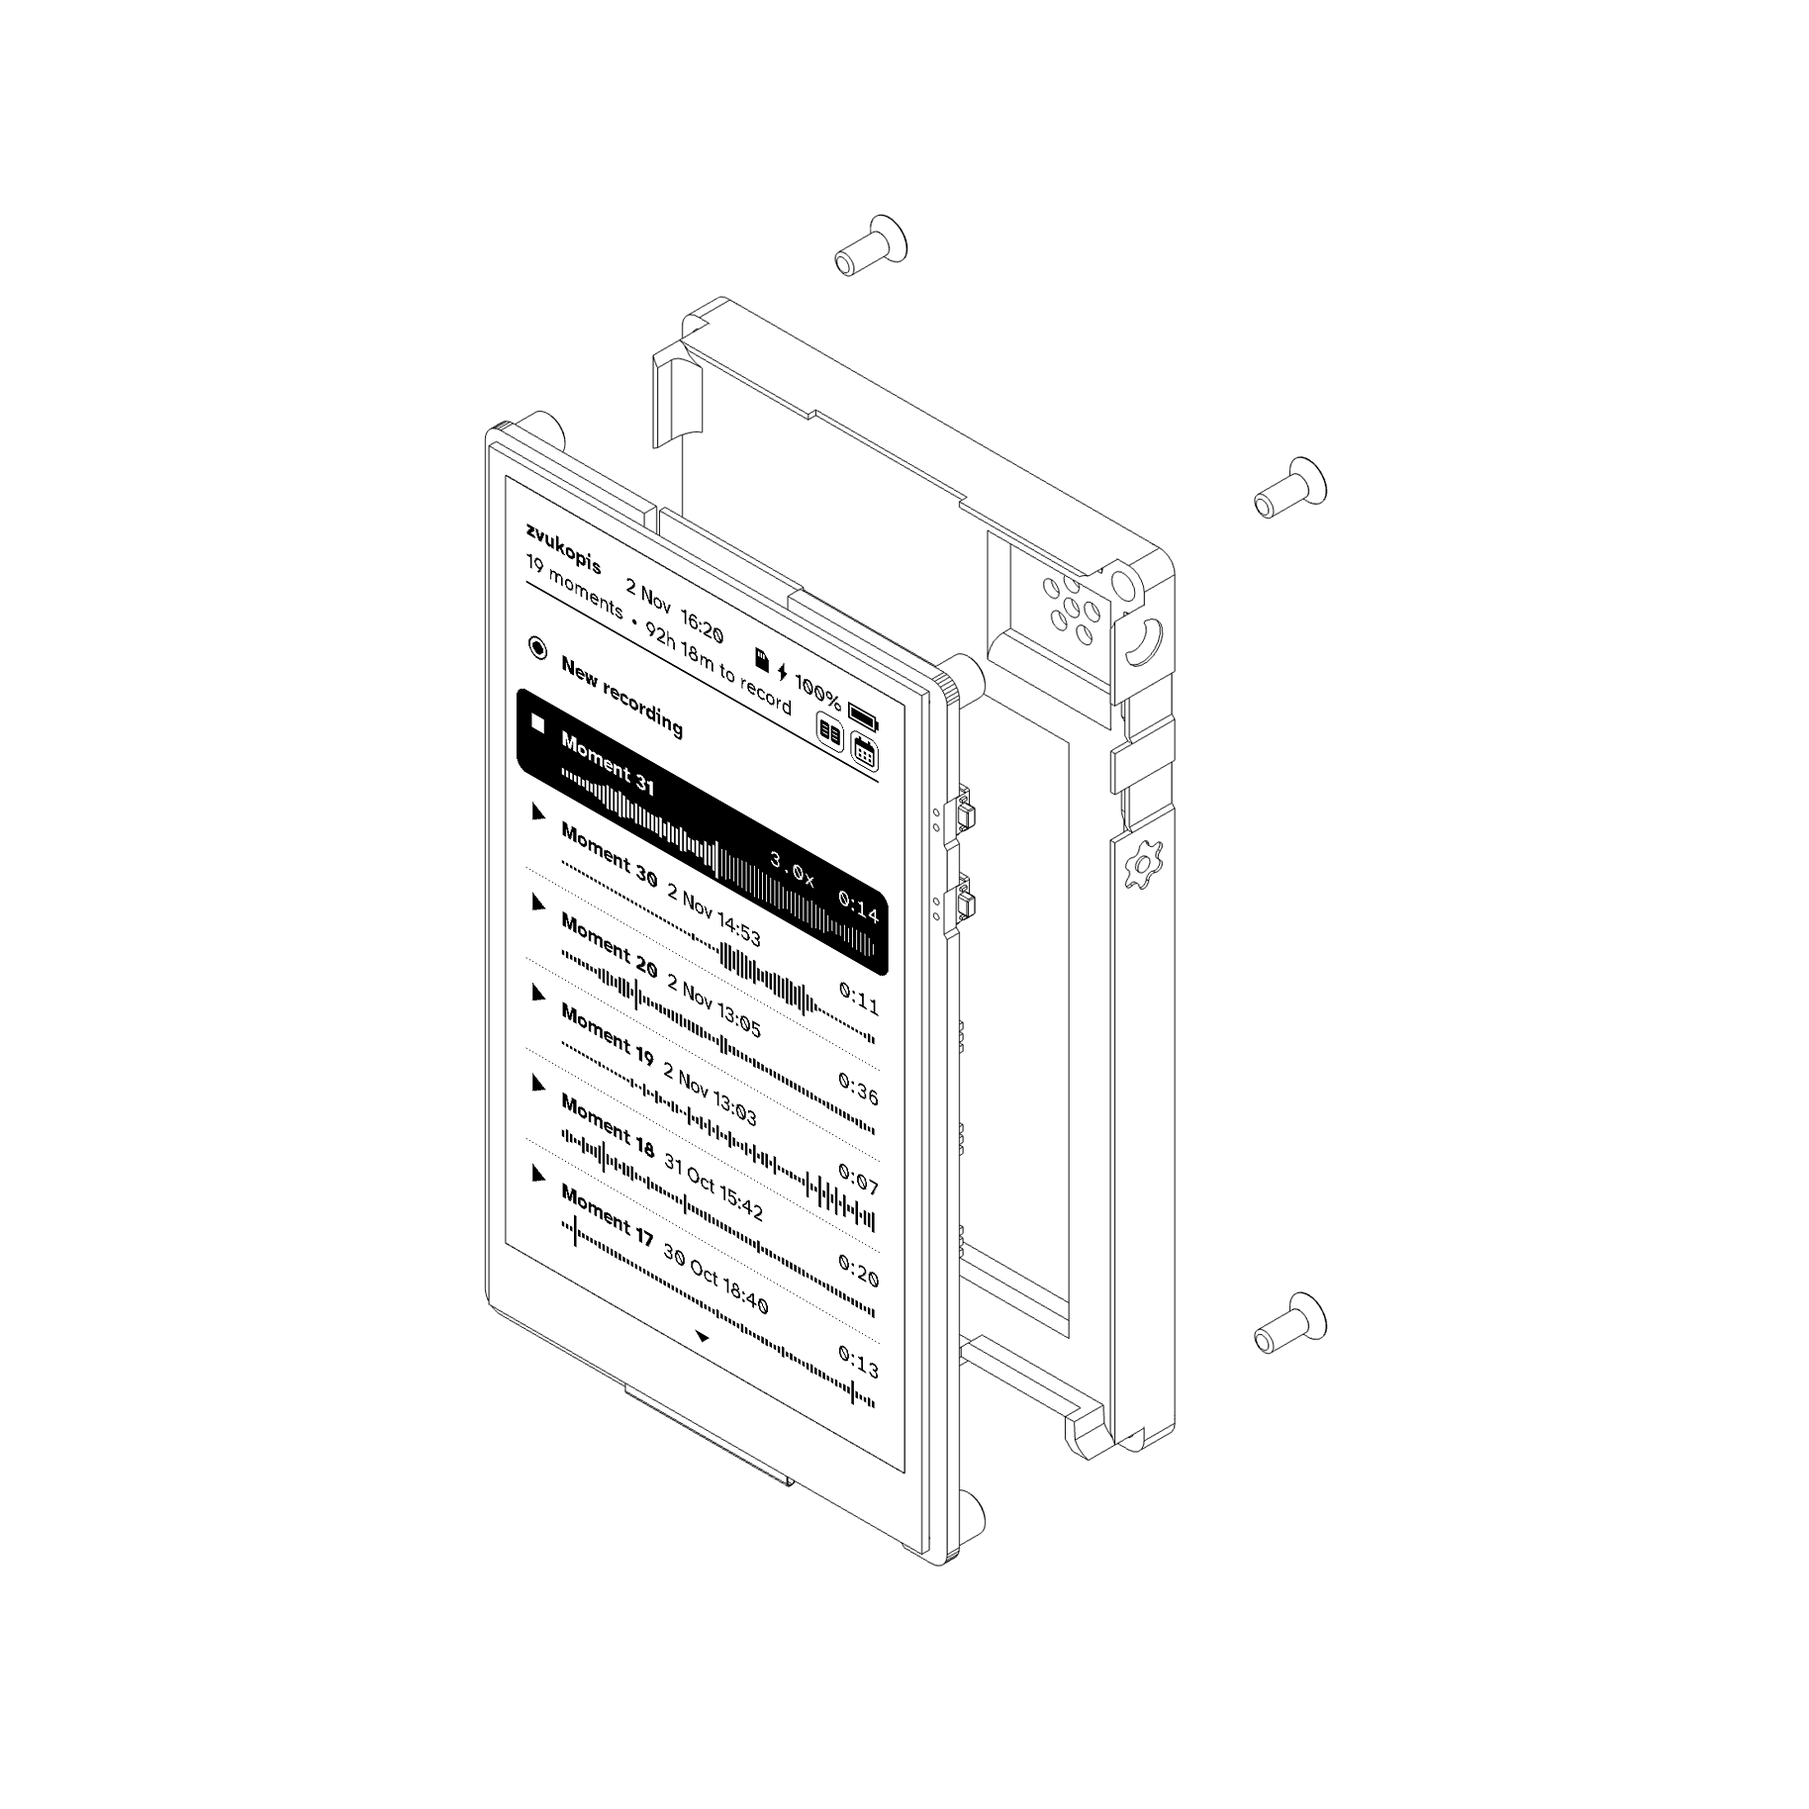
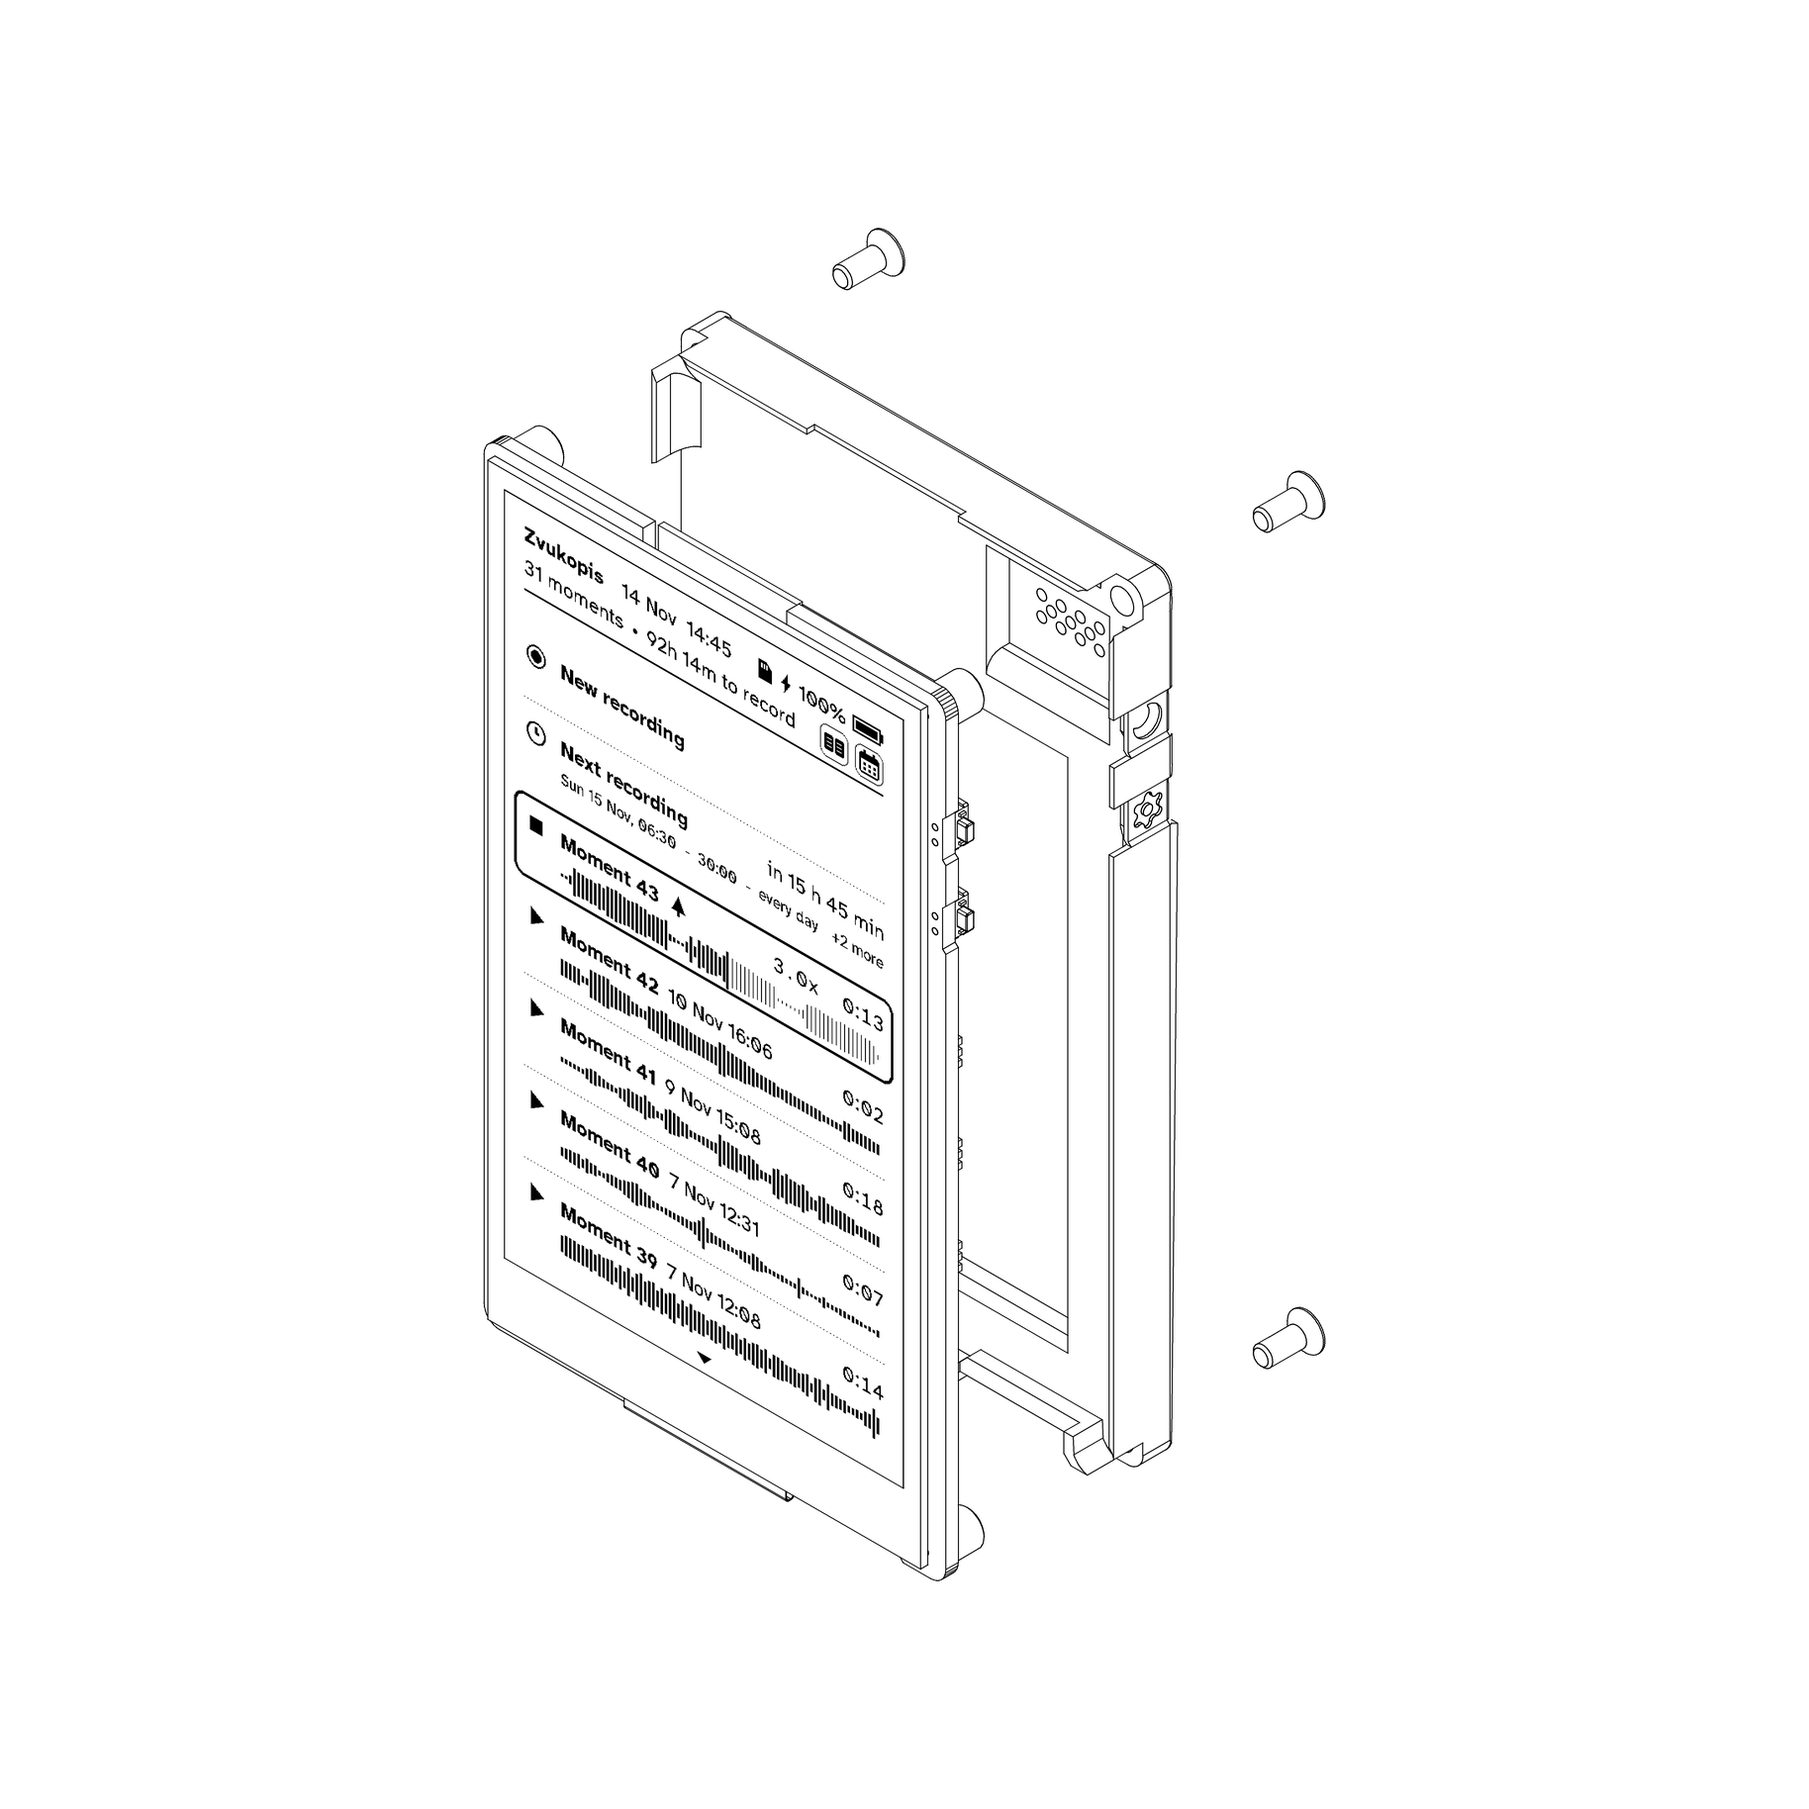
Case v1: its exploded view, drawn by a script
scripts/make_exploded_view.py draws the exploded view from the case's STEP
file, Waveshare's 3D model of the board and a screenshot of the device. It
turns the board into the case's coordinates, checks that the case has a
bolt hole under each standoff, adds the four bolts, removes the hidden
lines (OpenCascade) and lays the screenshot on the screen. Run with pipx,
it fetches what it needs by itself.

Drawn of the earlier case, its lines fall on the drawing that was made by
hand for that case. Drawn of v1, it replaces that drawing on the project
page: the grille of eleven holes and the smaller marks at the buttons now
show. docs/case/README.md names the script.

diff --git a/scripts/make_exploded_view.py b/scripts/make_exploded_view.py
@@ -1,0 +1,289 @@
+#!/usr/bin/env python3
+# /// script
+# requires-python = ">=3.11,<3.15"
+# dependencies = ["cadquery-ocp-novtk==8.0.1.1.0", "numpy>=2", "pillow>=10"]
+# ///
+"""Draw the exploded view of the case: the board in front, the case behind it,
+the four bolts behind the case, a screenshot of the device on the screen.
+
+    pipx run scripts/make_exploded_view.py
+
+reads the newest docs/case/zvukopis-case-vN.step and writes
+docs/case/zvukopis-case-vN.png beside it, the line drawing the project page
+shows in its Build section. pipx fetches what the script needs (OpenCascade,
+the CAD library that reads STEP files and removes the hidden lines) the first
+time, about 65 MB; the drawing itself takes about twenty seconds.
+
+It needs two more files:
+
+- the board's 3D model, a STEP file. It is Waveshare's
+  (ESP32-S3-EPAPER-3_97-20260821.stp) and is not in this repository. The
+  script looks for it in ../reference/ (see BOARD below); give another place
+  with --board.
+- a screenshot of the device, 480 x 800 (serial command "s"), for the screen.
+  scripts/exploded-view-screen.png unless --screen names another.
+
+The board's model lies along X where the case stands along Y, so it is turned
+a quarter turn about Z; apart from that the two share their coordinates (the
+case was drawn around the board's model). The script checks that before it
+draws: the case must have a hole under each of the board's four standoffs.
+"""
+import argparse
+import math
+import re
+import sys
+import time
+from pathlib import Path
+
+import numpy as np
+from PIL import Image, ImageChops, ImageDraw
+
+from OCP.BRep import BRep_Builder
+from OCP.BRepAdaptor import BRepAdaptor_Curve
+from OCP.BRepBndLib import BRepBndLib
+from OCP.BRepBuilderAPI import (BRepBuilderAPI_MakeEdge, BRepBuilderAPI_MakeFace, BRepBuilderAPI_MakeWire,
+                                BRepBuilderAPI_Transform)
+from OCP.BRepClass3d import BRepClass3d_SolidClassifier
+from OCP.BRepLib import BRepLib
+from OCP.BRepMesh import BRepMesh_IncrementalMesh
+from OCP.BRepPrimAPI import BRepPrimAPI_MakeRevol
+from OCP.Bnd import Bnd_Box
+from OCP.GCPnts import GCPnts_TangentialDeflection
+from OCP.HLRAlgo import HLRAlgo_Projector
+from OCP.HLRBRep import HLRBRep_PolyAlgo, HLRBRep_PolyHLRToShape
+from OCP.IFSelect import IFSelect_RetDone
+from OCP.STEPControl import STEPControl_Reader
+from OCP.TopAbs import TopAbs_EDGE, TopAbs_IN
+from OCP.TopExp import TopExp_Explorer
+from OCP.TopoDS import TopoDS, TopoDS_Compound
+from OCP.gp import gp_Ax1, gp_Ax2, gp_Dir, gp_Pnt, gp_Trsf, gp_Vec
+
+ROOT = Path(__file__).resolve().parent.parent
+CASES = ROOT / "docs" / "case"
+BOARD = ROOT.parent / "reference" / "ESP32-S3-EPAPER-3" / "ESP32-S3-EPAPER-3_97-20260821.stp"
+SCREEN = Path(__file__).resolve().parent / "exploded-view-screen.png"
+
+# The board, in the case's coordinates (millimetres; X across, Y up the device,
+# Z towards the eye that reads the screen). Read off Waveshare's model once.
+BOARD_BOX = ((-62.41, -0.01, -5.6), (0.69, 99.51, 1.35))      # with the wheel and the buttons that stick out
+STANDOFFS = ((-2.7, 2.7), (-57.3, 2.7), (-2.7, 96.8), (-57.3, 96.8))
+STANDOFF_END = -5.6                                            # where the bolts' threads begin
+PANEL = (-56.029, 9.718, -4.189, 96.118)                       # the screen's 480 x 800 dots: X left, Y bottom, X right, Y top
+PANEL_Z = 1.35
+
+# The bolts: countersunk M2.5 x 6. Shank and head diameters, head height, length.
+BOLT_SHANK, BOLT_HEAD, BOLT_HEAD_HEIGHT, BOLT_LENGTH = 2.5, 4.7, 1.3, 6.0
+
+# How far the parts are pulled apart along Z, and how the drawing sits on its square.
+BOARD_LIFT = 20.0        # the board, towards the eye
+BOLT_DROP = 20.0         # the bolts, away behind the case
+SIZE = 1828              # the picture's side, in pixels
+SCALE = 11.0             # pixels for a millimetre on the page (lines along X, Y and Z come out 0.82 of that)
+MARGIN = 0.05            # white kept at each side, as a part of the picture; a larger drawing is scaled down to keep it
+LINE = 1.0               # line width, in pixels of the picture
+OVERSAMPLE = 4
+
+# The view: from the front, the right and above, all three alike (isometric).
+EYE = (1.0, 1.0, 1.0)
+RIGHT = (1.0, 0.0, -1.0)
+
+
+def read_step(path):
+    reader = STEPControl_Reader()
+    if reader.ReadFile(str(path)) != IFSelect_RetDone:
+        sys.exit(f"Cannot read {path} as a STEP file.")
+    reader.TransferRoots()
+    return reader.OneShape()
+
+
+def box(shape):
+    b = Bnd_Box()
+    BRepBndLib.AddOptimal_s(shape, b, False, False)
+    lo, hi = b.CornerMin(), b.CornerMax()
+    return np.array([lo.X(), lo.Y(), lo.Z()]), np.array([hi.X(), hi.Y(), hi.Z()])
+
+
+def moved(shape, dz=0.0, quarter_turn=False):
+    t = gp_Trsf()
+    if quarter_turn:
+        t.SetRotation(gp_Ax1(gp_Pnt(0, 0, 0), gp_Dir(0, 0, 1)), math.pi / 2)
+    shift = gp_Trsf()
+    shift.SetTranslation(gp_Vec(0, 0, dz))
+    shift.Multiply(t)
+    return BRepBuilderAPI_Transform(shape, shift, True).Shape()
+
+
+def compound(shapes):
+    builder, c = BRep_Builder(), TopoDS_Compound()
+    builder.MakeCompound(c)
+    for s in shapes:
+        builder.Add(c, s)
+    return c
+
+
+def newest_case():
+    numbered = []
+    for p in CASES.glob("zvukopis-case-v*.step"):
+        m = re.fullmatch(r"zvukopis-case-v(\d+)\.step", p.name)
+        if m:
+            numbered.append((int(m.group(1)), p))
+    if not numbered:
+        sys.exit(f"No zvukopis-case-vN.step in {CASES}.")
+    return max(numbered)[1]
+
+
+def check_fit(case, board):
+    """The board as it sits on the case: stop if this case would not go on this board."""
+    lo, hi = box(board)
+    if np.abs(lo - BOARD_BOX[0]).max() > 0.05 or np.abs(hi - BOARD_BOX[1]).max() > 0.05:
+        sys.exit(f"The board's model is not the one this script knows: it spans {lo.round(2)} to {hi.round(2)}, "
+                 f"expected {BOARD_BOX[0]} to {BOARD_BOX[1]}. Check BOARD_BOX, STANDOFFS and PANEL against it.")
+    case_lo, case_hi = box(case)
+    if case_hi[2] > BOARD_BOX[1][2] or case_lo[2] > STANDOFF_END:
+        sys.exit(f"The case spans Z {case_lo[2]:.2f} to {case_hi[2]:.2f}: it is not drawn in the board's coordinates.")
+    inside = BRepClass3d_SolidClassifier(case)
+    for x, y in STANDOFFS:
+        for z in np.linspace(case_lo[2] - 0.5, STANDOFF_END, 12):
+            inside.Perform(gp_Pnt(x, y, float(z)), 1e-6)
+            if inside.State() == TopAbs_IN:
+                sys.exit(f"The case has no bolt hole under the standoff at X {x}, Y {y}: it is solid at Z {z:.2f}.")
+    return case_lo, case_hi
+
+
+def bolt():
+    """One countersunk bolt, standing on its head at the origin, its thread up along Z."""
+    r, R, k, L = BOLT_SHANK / 2, BOLT_HEAD / 2, BOLT_HEAD_HEIGHT, BOLT_LENGTH
+    rim = k - (R - r)                    # a 90-degree cone under a thin flat rim
+    chamfer = 0.3
+    outline = [(0, 0), (R, 0), (R, rim), (r, k), (r, L - chamfer), (r - chamfer, L), (0, L)]
+    wire = BRepBuilderAPI_MakeWire()
+    for (x0, z0), (x1, z1) in zip(outline, outline[1:] + outline[:1]):
+        wire.Add(BRepBuilderAPI_MakeEdge(gp_Pnt(x0, 0, z0), gp_Pnt(x1, 0, z1)).Edge())
+    face = BRepBuilderAPI_MakeFace(wire.Wire()).Face()
+    return BRepPrimAPI_MakeRevol(face, gp_Ax1(gp_Pnt(0, 0, 0), gp_Dir(0, 0, 1))).Shape()
+
+
+def at(shape, x, y, z):
+    t = gp_Trsf()
+    t.SetTranslation(gp_Vec(x, y, z))
+    return BRepBuilderAPI_Transform(shape, t, True).Shape()
+
+
+def page(points):
+    """Where points of the scene fall on the drawing, in millimetres, y up."""
+    p = np.asarray(points, dtype=float)
+    eye = np.array(EYE) / np.linalg.norm(EYE)
+    right = np.array(RIGHT) / np.linalg.norm(RIGHT)
+    up = np.cross(eye, right)
+    return np.stack([p @ right, p @ up], axis=-1)
+
+
+def visible_lines(scene, deflection=0.02, kinds=("sharp", "smooth", "outline")):
+    """The scene's edges and outlines as the eye sees them, hidden parts removed: polylines on the page."""
+    BRepMesh_IncrementalMesh(scene, deflection, False, 0.2, True)
+    algo = HLRBRep_PolyAlgo()
+    algo.Load(scene)
+    algo.Projector(HLRAlgo_Projector(gp_Ax2(gp_Pnt(0, 0, 0), gp_Dir(*EYE), gp_Dir(*RIGHT))))
+    algo.Update()
+    shapes = HLRBRep_PolyHLRToShape()
+    shapes.Update(algo)
+    # Edges where faces meet at an angle, edges where they meet smoothly (the ends of
+    # roundings), and the outlines of round faces. Left out: "seam", the line where a
+    # round face closes on itself, which a drawing does not show.
+    found = {"sharp": shapes.VCompound, "smooth": shapes.Rg1LineVCompound, "seam": shapes.RgNLineVCompound,
+             "outline": shapes.OutLineVCompound}
+    lines = []
+    for kind in kinds:
+        part = found[kind]()
+        if part is None or part.IsNull():
+            continue
+        BRepLib.BuildCurves3d_s(part)
+        e = TopExp_Explorer(part, TopAbs_EDGE)
+        while e.More():
+            curve = BRepAdaptor_Curve(TopoDS.Edge(e.Current()))
+            pts = GCPnts_TangentialDeflection(curve, 0.08, 0.005)
+            line = [(pts.Value(i).X(), pts.Value(i).Y()) for i in range(1, pts.NbPoints() + 1)]
+            if len(line) >= 2:
+                lines.append(np.array(line))
+            e.Next()
+    return lines
+
+
+def build_scene(case, board, case_lo):
+    head = bolt()
+    bolts = [at(head, x, y, case_lo[2] - BOLT_DROP) for x, y in STANDOFFS]
+    return compound([moved(board, BOARD_LIFT), case] + bolts)
+
+
+def draw(lines, screenshot, size=SIZE):
+    """Lines and screenshot on a white square."""
+    corners = np.array([(PANEL[0], PANEL[3], PANEL_Z + BOARD_LIFT), (PANEL[2], PANEL[3], PANEL_Z + BOARD_LIFT),
+                        (PANEL[0], PANEL[1], PANEL_Z + BOARD_LIFT)])                 # top left, top right, bottom left
+    quad = page(corners)
+    # The screen's border is an edge of the board's model too: its corners must lie on drawn lines.
+    drawn = np.concatenate(lines)
+    for c in quad:
+        if np.hypot(*(drawn - c).T).min() > 0.05:
+            sys.exit("The screen is not where PANEL says: no drawn line passes its corner. Check PANEL against the board's model.")
+    lo, hi = drawn.min(0), drawn.max(0)
+    scale = min(SCALE * size / SIZE, (1 - 2 * MARGIN) * size / (hi - lo).max())
+    origin = (lo + hi) / 2                                   # the drawing's middle goes to the picture's middle
+    big = size * OVERSAMPLE
+
+    def to_pixels(p):
+        p = (np.asarray(p) - origin) * scale * OVERSAMPLE
+        return np.stack([big / 2 + p[..., 0], big / 2 - p[..., 1]], axis=-1)
+
+    canvas = Image.new("L", (big, big), 255)
+    # The screenshot: dot (u, v) goes to top_left + u * across + v * down. PIL wants the way back.
+    tl, tr, bl = to_pixels(quad)
+    shot = screenshot.convert("L")
+    w, h = shot.size
+    across, down = (tr - tl) / w, (bl - tl) / h
+    m = np.linalg.inv(np.array([[across[0], down[0]], [across[1], down[1]]]))
+    offset = -m @ tl
+    layer = shot.transform((big, big), Image.AFFINE, (m[0, 0], m[0, 1], offset[0], m[1, 0], m[1, 1], offset[1]),
+                           resample=Image.NEAREST, fillcolor=255)
+    canvas = ImageChops.darker(canvas, layer)
+    pen = ImageDraw.Draw(canvas)
+    width = max(1, round(LINE * OVERSAMPLE))
+    for line in lines:
+        pts = [tuple(p) for p in to_pixels(line)]
+        pen.line(pts, fill=0, width=width, joint="curve")
+        for x, y in (pts[0], pts[-1]):
+            pen.ellipse((x - width / 2, y - width / 2, x + width / 2, y + width / 2), fill=0)
+    return canvas.resize((size, size), Image.LANCZOS)
+
+
+def main():
+    parser = argparse.ArgumentParser(description="Draw the exploded view of the case.")
+    parser.add_argument("--case", type=Path, help="the case's STEP file (the newest in docs/case/ if not given)")
+    parser.add_argument("--board", type=Path, default=BOARD, help="Waveshare's STEP model of the board")
+    parser.add_argument("--screen", type=Path, default=SCREEN, help="a 480 x 800 screenshot for the screen")
+    parser.add_argument("--out", type=Path, help="the picture to write (the case's name with .png if not given)")
+    args = parser.parse_args()
+    case_path = args.case or newest_case()
+    out = args.out or case_path.with_suffix(".png")
+    for needed, what in ((case_path, "the case"), (args.board, "the board's 3D model (see the top of this script)"),
+                         (args.screen, "the screenshot")):
+        if not needed.is_file():
+            sys.exit(f"{needed} is missing: {what}.")
+    screenshot = Image.open(args.screen)
+    if screenshot.size != (480, 800):
+        sys.exit(f"{args.screen} is {screenshot.size[0]} x {screenshot.size[1]}, not a 480 x 800 screenshot.")
+
+    start = time.time()
+    print(f"Case: {case_path.relative_to(ROOT) if case_path.is_relative_to(ROOT) else case_path}")
+    case = read_step(case_path)
+    board = moved(read_step(args.board), quarter_turn=True)
+    case_lo, _ = check_fit(case, board)
+    print(f"  a bolt hole under each of the board's standoffs ({time.time() - start:.0f} s)")
+    lines = visible_lines(build_scene(case, board, case_lo))
+    print(f"  {len(lines)} visible lines ({time.time() - start:.0f} s)")
+    picture = draw(lines, screenshot)
+    picture.save(out, optimize=True)
+    print(f"Wrote {out.relative_to(ROOT) if out.is_relative_to(ROOT) else out}, {SIZE} x {SIZE}, {out.stat().st_size // 1024} KB")
+
+
+if __name__ == "__main__":
+    main()

diff --git a/docs/case/README.md b/docs/case/README.md
@@ -12,3 +12,5 @@ four countersunk M2.5×6 bolts, hex or Torx. The build steps are on the
 A new version gets the next number in both file names, a row here, and a row
 in the case list on the project page (`docs/index.html`, the Build section,
 by the title), where the 3D view and the parts list also name the file.
+The exploded view is drawn from the STEP file by
+`scripts/make_exploded_view.py`.
